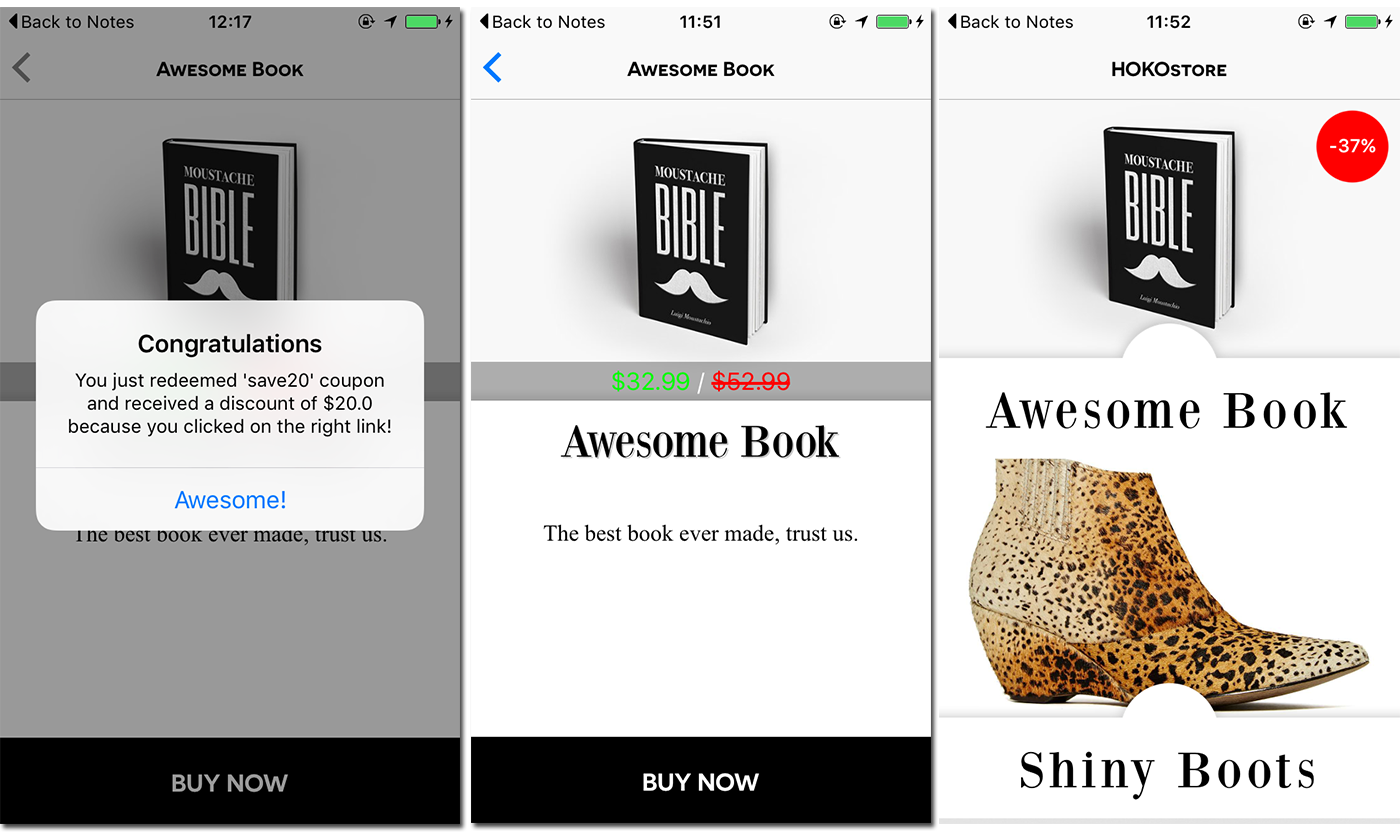
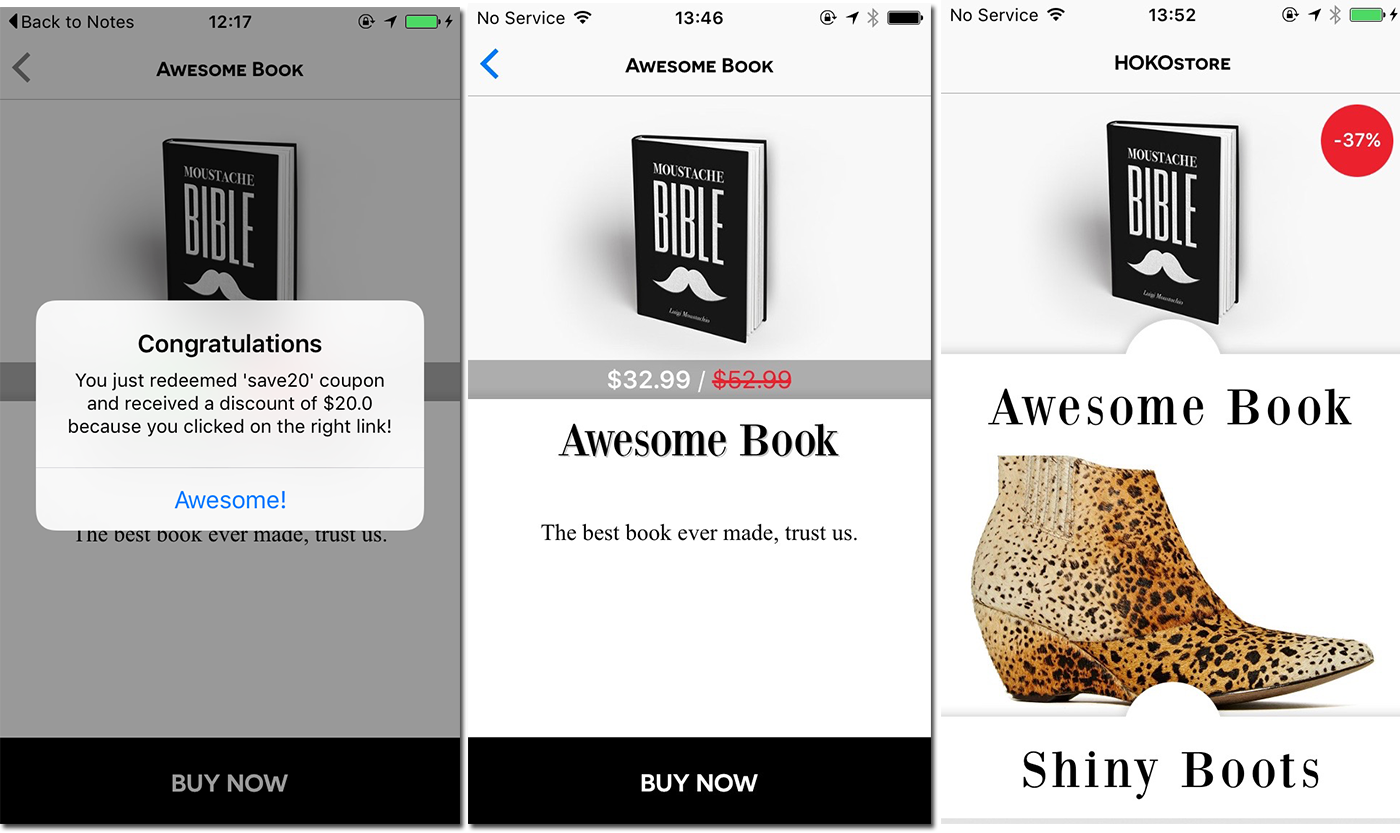
Updated price colors and README image

diff --git a/HOKOstore/HKSProductDiscountLabel.swift b/HOKOstore/HKSProductDiscountLabel.swift
@@ -16,8 +16,9 @@ class HKSProductDiscountLabel: UILabel {
             
             let discountPriceString = "$\(price - disc)"
             let basePriceString = "$\(price)"
-            attributedString.addAttribute(NSForegroundColorAttributeName, value: UIColor.greenColor(), range: NSRange(location: 0, length: discountPriceString.characters.count))
-            attributedString.addAttribute(NSForegroundColorAttributeName, value: UIColor.redColor(), range: NSRange(location: discountPriceString.characters.count + 3, length: basePriceString.characters.count))
+            attributedString.addAttribute(NSForegroundColorAttributeName, value: UIColor.whiteColor(), range: NSRange(location: 0, length: discountPriceString.characters.count))
+            attributedString.addAttribute(NSFontAttributeName, value: UIFont.boldSystemFontOfSize(17), range: NSRange(location: 0, length: discountPriceString.characters.count))
+            attributedString.addAttribute(NSForegroundColorAttributeName, value: UIColor(red:0.92, green:0.13, blue :0.18, alpha:1), range: NSRange(location: discountPriceString.characters.count + 3, length: basePriceString.characters.count))
             attributedString.addAttribute(NSStrikethroughStyleAttributeName, value: 2, range: NSRange(location: discountPriceString.characters.count + 3, length: basePriceString.characters.count))
             
             self.attributedText = attributedString
